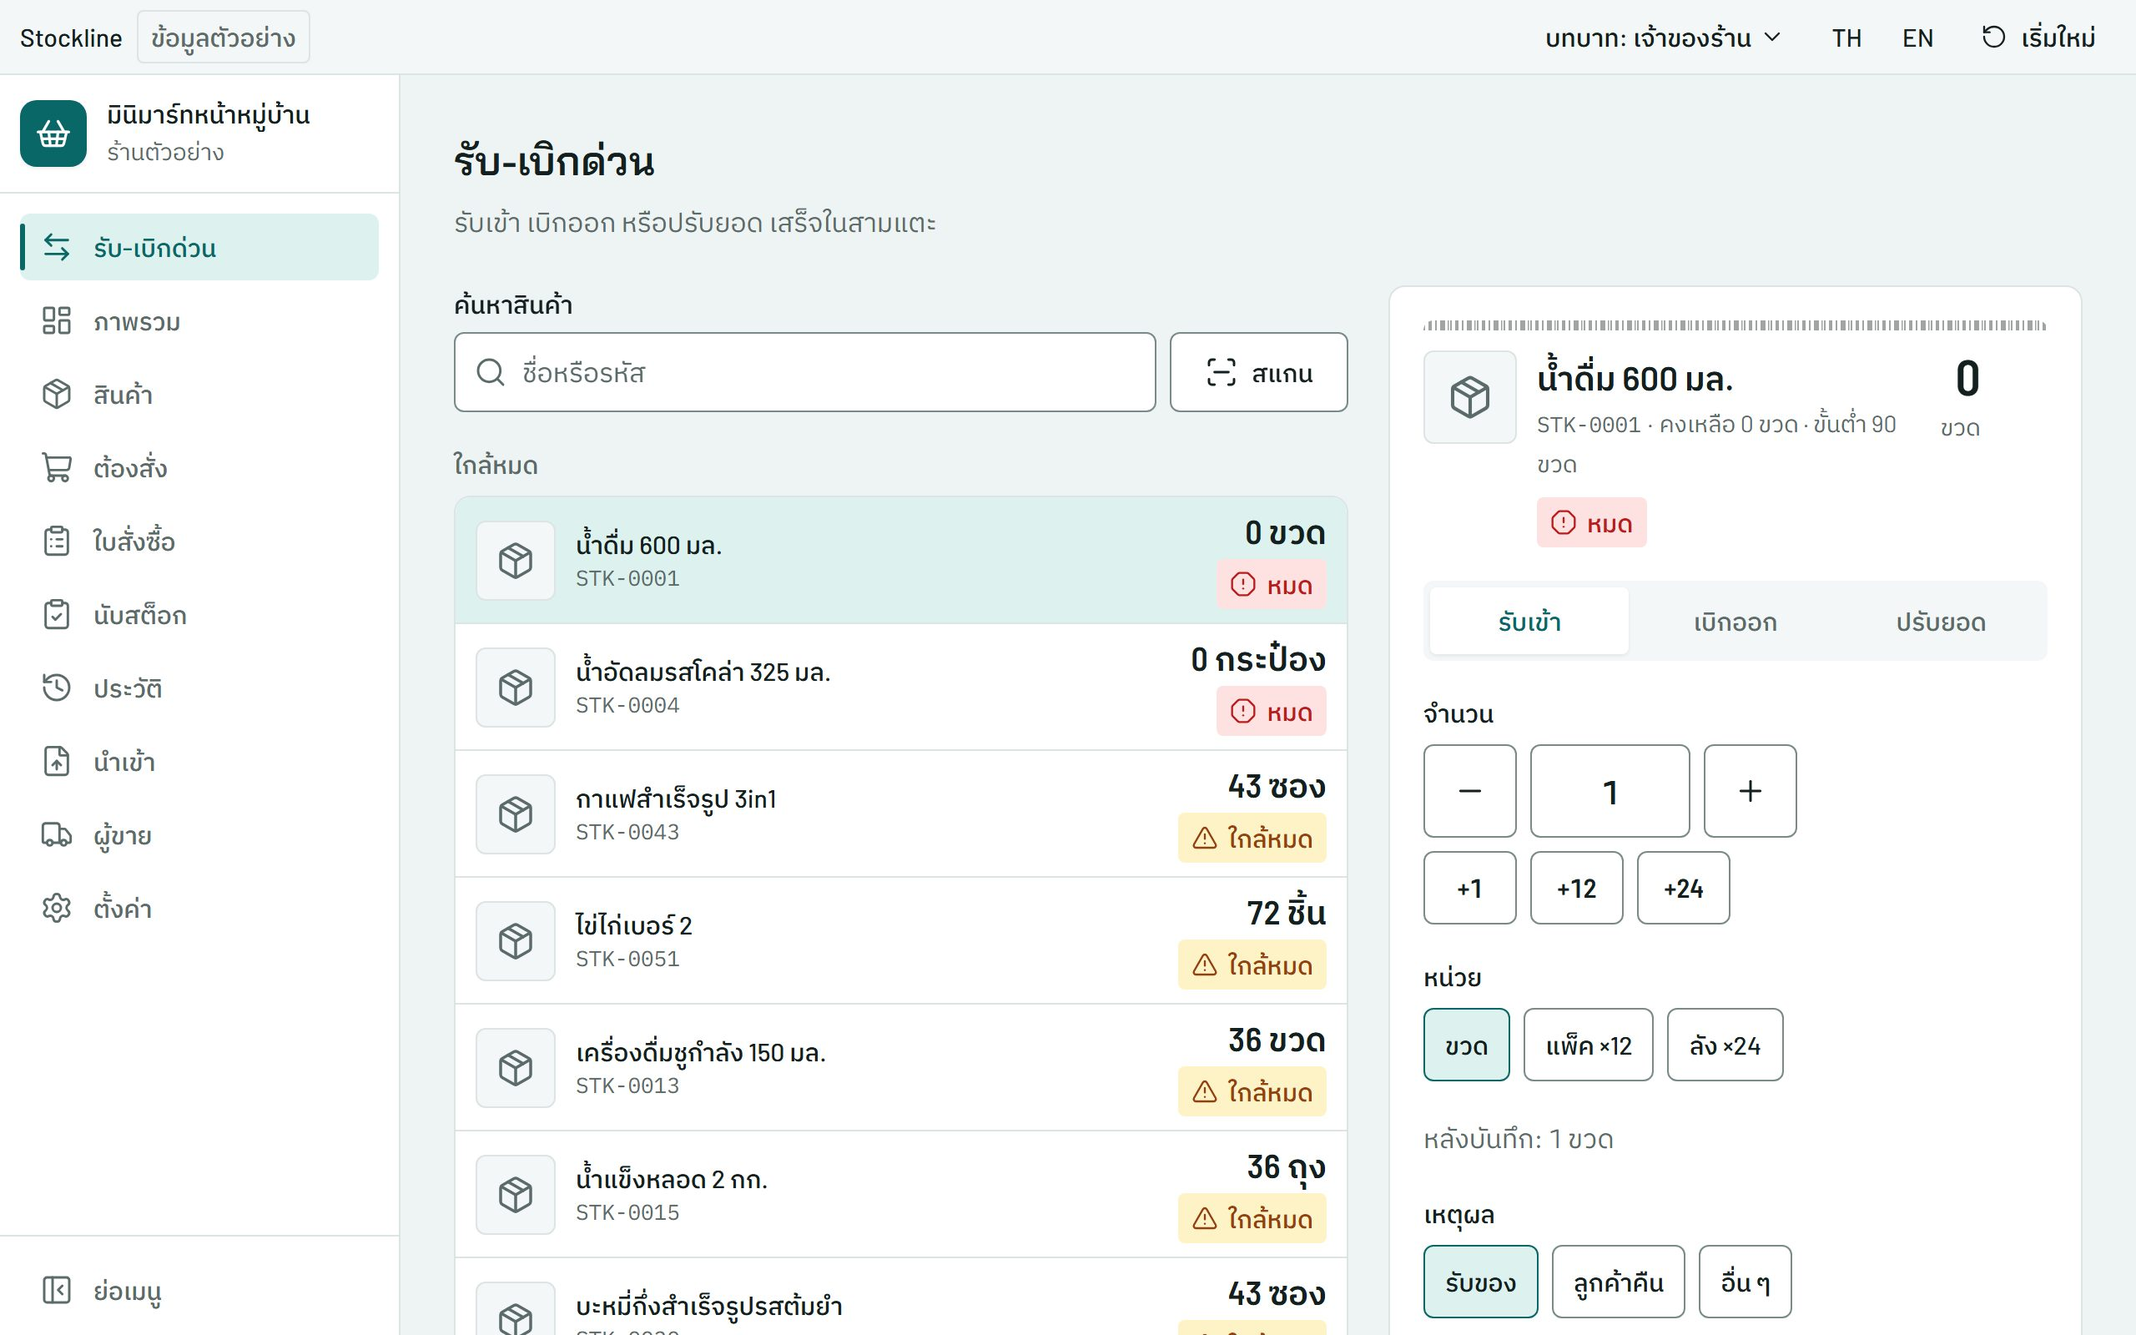
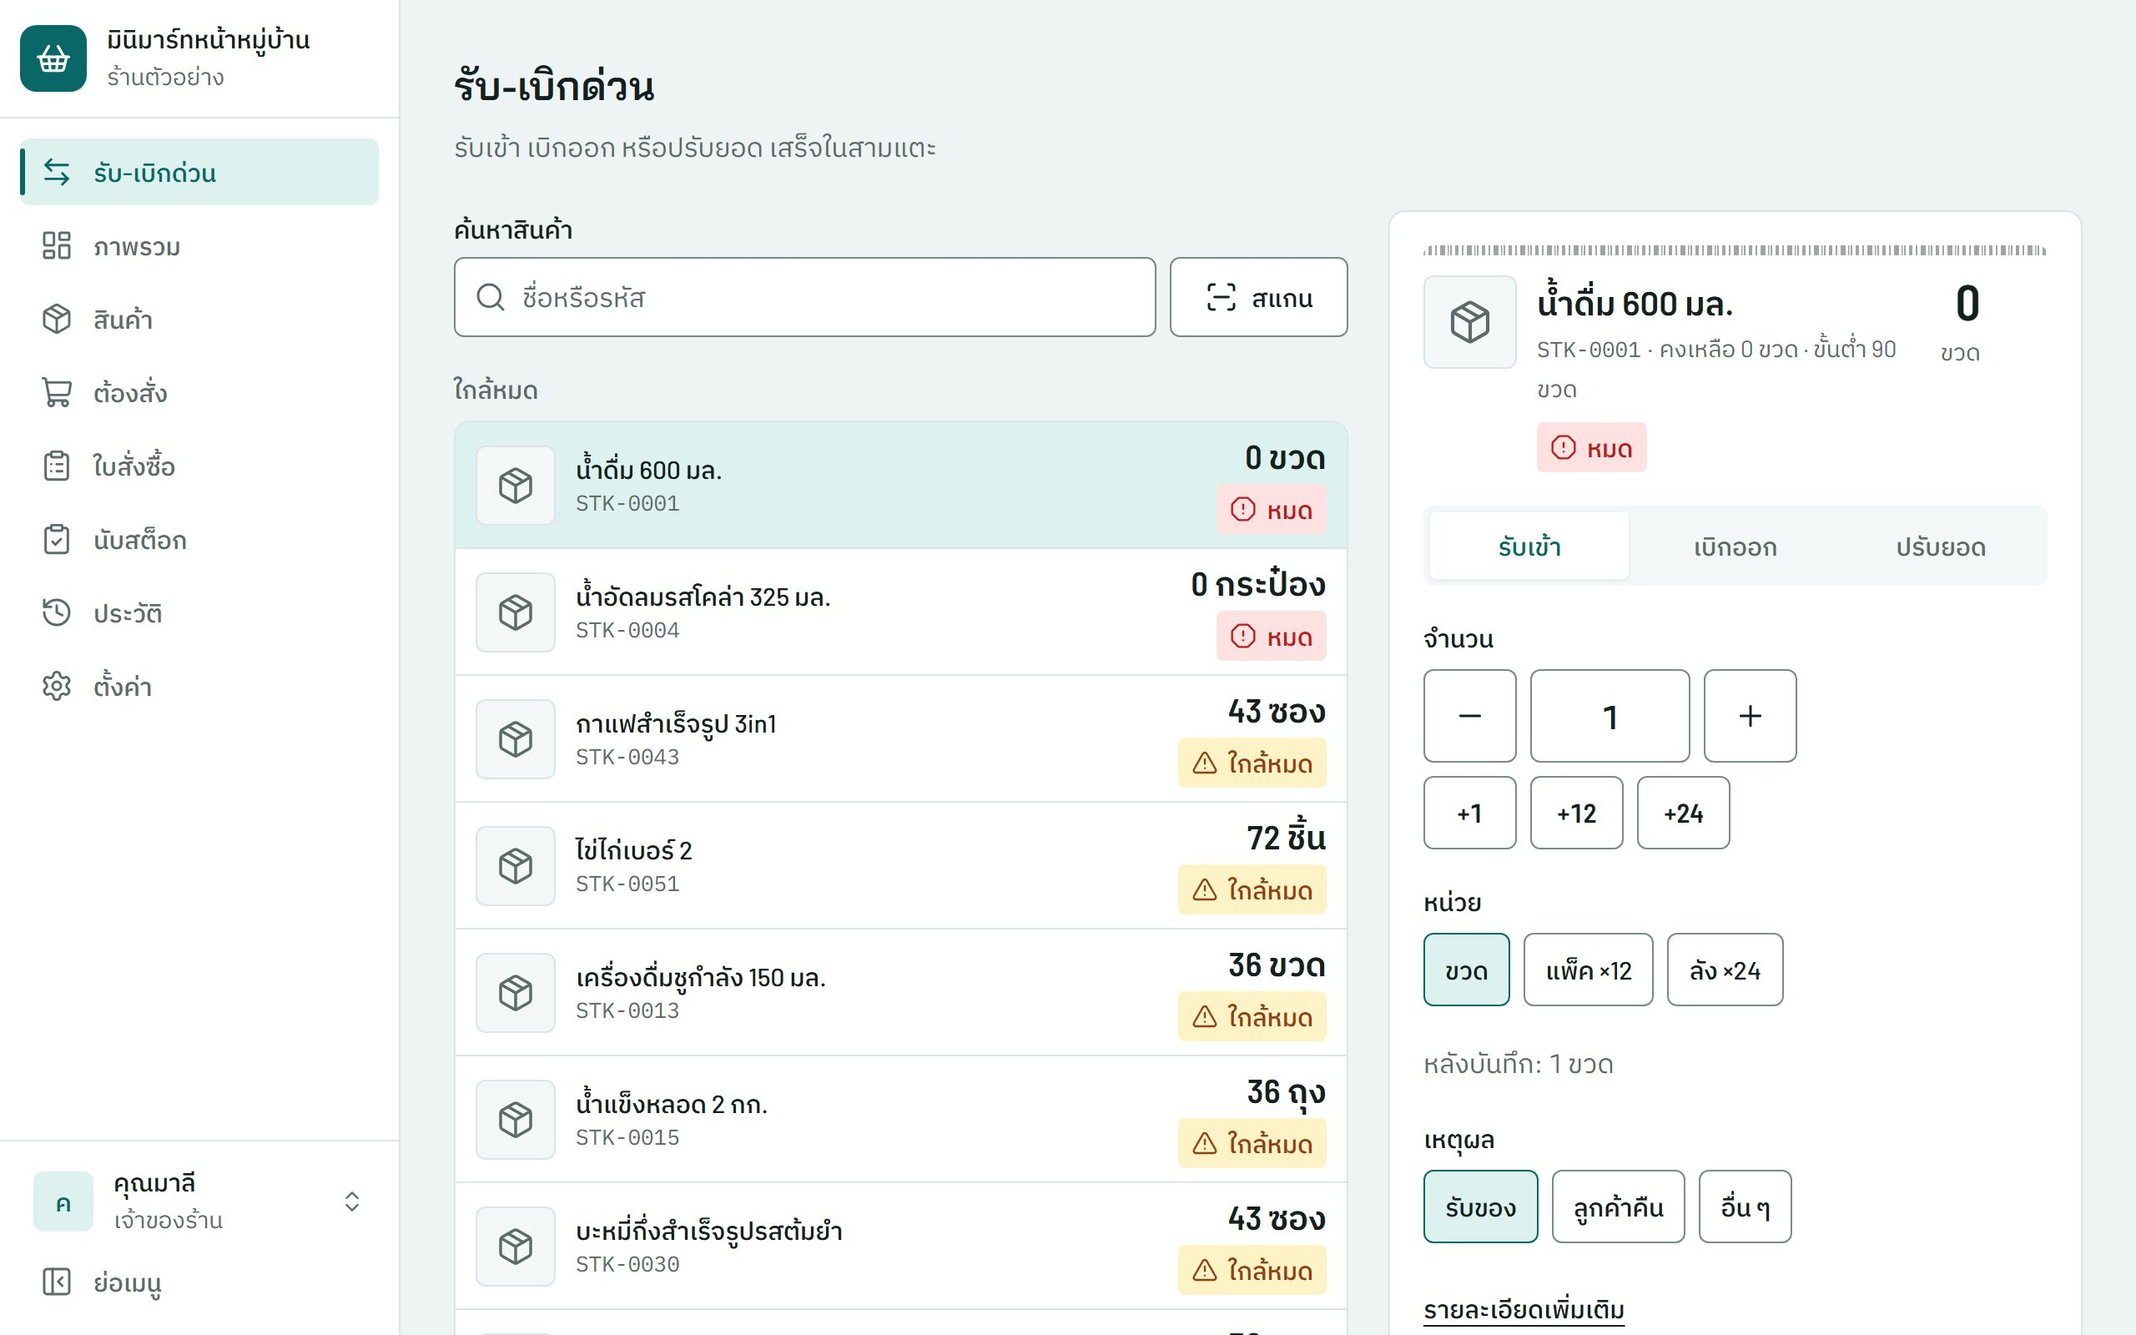
Bring the Stockline pictures up to date with the app
The app no longer has the demo bar: the shop badge heads the sidebar, the account menu and Collapse sit at its foot, and Settings is in the menu. The home page mock now draws it that way (the phone starts with the shop badge, the move panel shows the minimum and the unit choice), and the three screenshots are recaptured from the live app (Thai, light, 2x, tour skipped).

diff --git a/components/products/mocks/StocklineMock.tsx b/components/products/mocks/StocklineMock.tsx
@@ -3,8 +3,9 @@ import { MockIcon, type MockIconName } from './MockIcon';
 
 /**
  * A designed Stockline screen for the website's device frames (not a screenshot): quick move in the sample
- * mini-mart, as the v2 app draws it. The laptop shows the two-pane layout (low-stock list and the move panel with
- * its label strip); the phone shows the large item cards and the bottom tabs. Drawn in device units so it keeps its
+ * mini-mart, as the app draws it today (no app bar: the shop badge heads the sidebar, the account menu sits at its
+ * foot). The laptop shows the two-pane layout (low-stock list and the move panel with its label strip); the phone
+ * shows the shop badge, the large item cards and the bottom tabs. Drawn in device units so it keeps its
  * proportions at any frame size. Colours are Stockline's own (mocks.css); the text is the app's, in the page's
  * language. `data-spot` marks the parts the home page calls out (STOCKLINE_SPOTS, DeviceSpots).
  */
@@ -15,35 +16,43 @@ const COPY = {
   th: {
     shop: 'มินิมาร์ทหน้าหมู่บ้าน',
     sample: 'ร้านตัวอย่าง',
-    sampleData: 'ข้อมูลตัวอย่าง',
+    owner: 'คุณมาลี',
+    role: 'เจ้าของร้าน',
+    collapse: 'ย่อเมนู',
     title: 'รับ-เบิกด่วน',
     subtitle: 'รับเข้า เบิกออก หรือปรับยอด เสร็จในสามแตะ',
     search: 'ชื่อหรือรหัส',
     scan: 'สแกน',
     low: 'ใกล้หมด',
     out: 'หมด',
-    left: (qty: number, unit: string) => `คงเหลือ ${qty} ${unit}`,
+    left: (qty: number, unit: string, min: number) => `คงเหลือ ${qty} ${unit} · ขั้นต่ำ ${min} ${unit}`,
     types: ['รับเข้า', 'เบิกออก', 'ปรับยอด'],
     quantity: 'จำนวน',
+    unit: 'หน่วย',
+    packs: ['แพ็ค', 'ลัง'],
     save: 'บันทึกรับเข้า',
-    nav: ['รับ-เบิกด่วน', 'ภาพรวม', 'สินค้า', 'ต้องสั่ง', 'ใบสั่งซื้อ', 'นับสต็อก', 'ประวัติ'],
+    nav: ['รับ-เบิกด่วน', 'ภาพรวม', 'สินค้า', 'ต้องสั่ง', 'ใบสั่งซื้อ', 'นับสต็อก', 'ประวัติ', 'ตั้งค่า'],
     tabs: ['รับ-เบิก', 'สินค้า', 'ต้องสั่ง', 'ประวัติ', 'เพิ่มเติม'],
   },
   en: {
     shop: 'Village Mini-mart',
     sample: 'Sample shop',
-    sampleData: 'Sample data',
+    owner: 'คุณมาลี',
+    role: 'Owner',
+    collapse: 'Collapse',
     title: 'Quick move',
     subtitle: 'Stock in, stock out or adjust in three taps',
     search: 'Name or code',
     scan: 'Scan',
     low: 'Running low',
     out: 'Out',
-    left: (qty: number, unit: string) => `${qty} ${unit} on hand`,
+    left: (qty: number, unit: string, min: number) => `${qty} ${unit} on hand · min ${min}`,
     types: ['In', 'Out', 'Adjust'],
     quantity: 'Quantity',
+    unit: 'Unit',
+    packs: ['Pack', 'Case'],
     save: 'Save In',
-    nav: ['Quick move', 'Overview', 'Items', 'To order', 'Orders', 'Counts', 'History'],
+    nav: ['Quick move', 'Overview', 'Items', 'To order', 'Orders', 'Counts', 'History', 'Settings'],
     tabs: ['Move', 'Items', 'Order', 'History', 'More'],
   },
 } as const;
@@ -53,6 +62,7 @@ type Item = {
   en: string;
   code: string;
   qty: number;
+  min: number;
   unit: [string, string];
   out: boolean;
   icon: MockIconName;
@@ -60,14 +70,14 @@ type Item = {
 };
 
 const ITEMS: Item[] = [
-  { th: 'น้ำดื่ม 600 มล.', en: 'Drinking water 600 ml', code: 'STK-0001', qty: 0, unit: ['ขวด', 'bottles'], out: true, icon: 'bottle', packs: [12, 24] },
-  { th: 'น้ำอัดลมรสโคล่า 325 มล.', en: 'Cola 325 ml can', code: 'STK-0004', qty: 0, unit: ['กระป๋อง', 'cans'], out: true, icon: 'can', packs: [6, 24] },
-  { th: 'กาแฟสำเร็จรูป 3in1', en: 'Instant coffee 3-in-1', code: 'STK-0043', qty: 43, unit: ['ซอง', 'sachets'], out: false, icon: 'cup', packs: [27] },
-  { th: 'ไข่ไก่เบอร์ 2', en: 'Chicken eggs, size 2', code: 'STK-0051', qty: 72, unit: ['ฟอง', 'eggs'], out: false, icon: 'egg', packs: [30] },
-  { th: 'เครื่องดื่มชูกำลัง 150 มล.', en: 'Energy drink 150 ml', code: 'STK-0013', qty: 36, unit: ['ขวด', 'bottles'], out: false, icon: 'bolt', packs: [10, 50] },
+  { th: 'น้ำดื่ม 600 มล.', en: 'Drinking water 600 ml', code: 'STK-0001', qty: 0, min: 90, unit: ['ขวด', 'bottles'], out: true, icon: 'bottle', packs: [12, 24] },
+  { th: 'น้ำอัดลมรสโคล่า 325 มล.', en: 'Cola 325 ml can', code: 'STK-0004', qty: 0, min: 48, unit: ['กระป๋อง', 'cans'], out: true, icon: 'can', packs: [6, 24] },
+  { th: 'กาแฟสำเร็จรูป 3in1', en: 'Instant coffee 3-in-1', code: 'STK-0043', qty: 43, min: 60, unit: ['ซอง', 'sachets'], out: false, icon: 'cup', packs: [27] },
+  { th: 'ไข่ไก่เบอร์ 2', en: 'Chicken eggs, size 2', code: 'STK-0051', qty: 72, min: 90, unit: ['ฟอง', 'eggs'], out: false, icon: 'egg', packs: [30] },
+  { th: 'เครื่องดื่มชูกำลัง 150 มล.', en: 'Energy drink 150 ml', code: 'STK-0013', qty: 36, min: 40, unit: ['ขวด', 'bottles'], out: false, icon: 'bolt', packs: [10, 50] },
 ];
 
-const NAV_ICONS: MockIconName[] = ['swap', 'grid', 'box', 'cart', 'doc', 'check', 'clock'];
+const NAV_ICONS: MockIconName[] = ['swap', 'grid', 'box', 'cart', 'doc', 'check', 'clock', 'gear'];
 const TAB_ICONS: MockIconName[] = ['swap', 'box', 'cart', 'clock', 'dots'];
 
 const name = (item: Item, locale: Locale) => (locale === 'th' ? item.th : item.en);
@@ -122,19 +132,22 @@ function Shop({ locale }: { locale: Locale }) {
   );
 }
 
-/** The app bar: name, the sample-data chip, the language switch. */
-function AppBar({ locale, menu }: { locale: Locale; menu: boolean }) {
+/** The foot of the sidebar: the account menu and the collapse control. */
+function Account({ locale }: { locale: Locale }) {
   const c = COPY[locale];
   return (
-    <div className="mk-top">
-      <span className="mk-sl-brand">
-        <b>Stockline</b>
-        <span className="mk-sl-tag">{c.sampleData}</span>
+    <div className="mk-sl-foot">
+      <span className="mk-sl-account">
+        <span className="mk-sl-avatar">{c.owner.slice(0, 1)}</span>
+        <span className="mk-shop-text">
+          <b>{c.owner}</b>
+          <small>{c.role}</small>
+        </span>
+        <MockIcon name="updown" />
       </span>
-      <span className="mk-sl-bar-end">
-        <span className={locale === 'th' ? 'is-on' : undefined}>TH</span>
-        <span className={locale === 'en' ? 'is-on' : undefined}>EN</span>
-        {menu ? <MockIcon name="menu" /> : <MockIcon name="reset" />}
+      <span>
+        <MockIcon name="sidebar" />
+        {c.collapse}
       </span>
     </div>
   );
@@ -170,7 +183,7 @@ function Panel({ locale }: { locale: Locale }) {
         <span className="mk-row-text">
           <b>{name(item, locale)}</b>
           <code>
-            {item.code} · {c.left(item.qty, unit(item, locale))}
+            {item.code} · {c.left(item.qty, unit(item, locale), item.min)}
           </code>
         </span>
         <span className="mk-sl-big">
@@ -203,6 +216,15 @@ function Panel({ locale }: { locale: Locale }) {
           </span>
         ))}
       </div>
+      <small className="mk-sl-field">{c.unit}</small>
+      <div className="mk-sl-chips">
+        <span className="is-on">{unit(item, locale)}</span>
+        {item.packs.map((size, i) => (
+          <span key={size}>
+            {c.packs[i]} ×{size}
+          </span>
+        ))}
+      </div>
       <span className="mk-sl-save">{c.save}</span>
     </section>
   );
@@ -214,7 +236,6 @@ export function StocklineMock({ locale, device }: { locale: Locale; device: 'des
     return (
       <div className="mk mk-stockline mk-phone" lang={locale}>
         <div className="mk-status" />
-        <AppBar locale={locale} menu />
         <div className="mk-main">
           <Shop locale={locale} />
           <h3>{c.title}</h3>
@@ -236,7 +257,6 @@ export function StocklineMock({ locale, device }: { locale: Locale; device: 'des
   }
   return (
     <div className="mk mk-stockline mk-desktop" lang={locale}>
-      <AppBar locale={locale} menu={false} />
       <div className="mk-body">
         <div className="mk-side">
           <span className="mk-sl-side-shop">
@@ -248,6 +268,7 @@ export function StocklineMock({ locale, device }: { locale: Locale; device: 'des
               {label}
             </span>
           ))}
+          <Account locale={locale} />
         </div>
         <div className="mk-main">
           <h3>{c.title}</h3>

diff --git a/components/products/mocks/mocks.css b/components/products/mocks/mocks.css
@@ -115,14 +115,10 @@
 .mk-phone .mk-notice b { font-size: calc(var(--u) * 17); }
 .mk-phone .mk-notice span { font-size: calc(var(--u) * 14.5); color: var(--mk-ink); }
 
-/* Stockline v2 (ux-v2/stockline.md): app bar with the sample-data tag, the shop badge in the sidebar, content on the
-   surface tint in white cards, the two-pane quick move with the label-strip panel, large phone cards. */
+/* Stockline v2 (ux-v2/stockline.md), as the app is today: no app bar; the shop badge heads the sidebar and the account
+   menu sits at its foot; content on the surface tint in white cards, the two-pane quick move with the label-strip
+   panel, large phone cards under the shop badge. */
 .mk-stockline .mk-num { font-weight: 700; font-variant-numeric: tabular-nums; }
-.mk-stockline .mk-top { display: flex; align-items: center; justify-content: space-between; background: var(--mk-sunken); border-bottom: 1px solid var(--mk-line); }
-.mk-sl-brand { display: flex; align-items: center; }
-.mk-sl-tag { border: 1px solid var(--mk-line); background: var(--mk-surface); color: var(--mk-muted); }
-.mk-sl-bar-end { display: flex; align-items: center; color: var(--mk-muted); }
-.mk-sl-bar-end .is-on { color: var(--mk-ink); font-weight: 600; }
 .mk-searchrow { display: flex; }
 .mk-search, .mk-scan { display: flex; align-items: center; border: 1px solid var(--mk-line-strong); background: var(--mk-surface); }
 .mk-search { flex: 1; min-width: 0; color: var(--mk-muted); }
@@ -137,11 +133,7 @@
 .mk-chip { display: inline-flex; align-items: center; justify-self: end; font-weight: 600; white-space: nowrap; }
 
 /* Laptop: the screen is 600 × 375 units. */
-.mk-stockline.mk-desktop .mk-top { height: calc(var(--u) * 28); padding: 0 calc(var(--u) * 12); }
-.mk-stockline.mk-desktop .mk-sl-brand { gap: calc(var(--u) * 6); font-size: calc(var(--u) * 9); }
-.mk-stockline.mk-desktop .mk-sl-tag { padding: calc(var(--u) * 1.5) calc(var(--u) * 5); border-radius: calc(var(--u) * 3); font-size: calc(var(--u) * 7); }
-.mk-stockline.mk-desktop .mk-sl-bar-end { gap: calc(var(--u) * 10); font-size: calc(var(--u) * 8); }
-.mk-stockline.mk-desktop .mk-side { width: calc(var(--u) * 116); padding: 0 calc(var(--u) * 8) calc(var(--u) * 8); gap: calc(var(--u) * 3); background: var(--mk-surface); }
+.mk-stockline.mk-desktop .mk-side { display: flex; flex-direction: column; width: calc(var(--u) * 116); padding: 0 calc(var(--u) * 8) calc(var(--u) * 6); gap: calc(var(--u) * 3); background: var(--mk-surface); }
 .mk-stockline.mk-desktop .mk-side > span { height: calc(var(--u) * 19); font-size: calc(var(--u) * 7.5); }
 .mk-stockline.mk-desktop .mk-side > span.is-on { box-shadow: inset calc(var(--u) * 2) 0 0 var(--mk-primary); }
 .mk-stockline.mk-desktop .mk-side > .mk-sl-side-shop { display: block; height: auto; margin: 0 calc(var(--u) * -8) calc(var(--u) * 6); padding: calc(var(--u) * 10); border-bottom: 1px solid var(--mk-line); border-radius: 0; }
@@ -188,16 +180,12 @@
 .mk-sl-stepper { display: grid; grid-template-columns: calc(var(--u) * 24) minmax(0, 1fr) calc(var(--u) * 24); gap: calc(var(--u) * 5); }
 .mk-sl-stepper > * { display: flex; align-items: center; justify-content: center; height: calc(var(--u) * 24); border: 1px solid var(--mk-line-strong); border-radius: calc(var(--u) * 4); color: var(--mk-ink); font-size: calc(var(--u) * 10); }
 .mk-sl-chips { display: flex; gap: calc(var(--u) * 5); }
+.mk-sl-chips span.is-on { background: var(--mk-soft); border-color: var(--mk-primary); }
 .mk-sl-chips span { display: flex; align-items: center; height: calc(var(--u) * 17); padding: 0 calc(var(--u) * 7); border: 1px solid var(--mk-line-strong); border-radius: calc(var(--u) * 4); font-size: calc(var(--u) * 7); color: var(--mk-ink); }
 .mk-sl-save { display: flex; align-items: center; justify-content: center; height: calc(var(--u) * 22); border-radius: calc(var(--u) * 4); background: var(--mk-primary); color: var(--mk-on-primary); font-weight: 600; font-size: calc(var(--u) * 7.5); }
 
 /* Phone: the screen is 390 × 830 units. */
-.mk-stockline.mk-phone .mk-status { background: var(--mk-sunken); }
-.mk-stockline.mk-phone .mk-top { height: calc(var(--u) * 56); padding: 0 calc(var(--u) * 20); }
-.mk-stockline.mk-phone .mk-sl-brand { gap: calc(var(--u) * 10); font-size: calc(var(--u) * 18); }
-.mk-stockline.mk-phone .mk-sl-tag { padding: calc(var(--u) * 3) calc(var(--u) * 9); border-radius: calc(var(--u) * 6); font-size: calc(var(--u) * 14); }
-.mk-stockline.mk-phone .mk-sl-bar-end { gap: calc(var(--u) * 22); font-size: calc(var(--u) * 16); }
-.mk-stockline.mk-phone .mk-sl-bar-end .mk-icon { font-size: calc(var(--u) * 24); color: var(--mk-ink); }
+.mk-stockline.mk-phone .mk-status { background: var(--mk-surface); }
 .mk-stockline.mk-phone .mk-main { padding: calc(var(--u) * 20); background: var(--mk-surface); }
 .mk-stockline.mk-phone .mk-shop { gap: calc(var(--u) * 12); margin-bottom: calc(var(--u) * 22); }
 .mk-stockline.mk-phone .mk-logo { width: calc(var(--u) * 44); height: calc(var(--u) * 44); border-radius: calc(var(--u) * 10); font-size: calc(var(--u) * 24); }
@@ -227,3 +215,12 @@
 .mk-stockline.mk-desktop .mk-side .mk-logo { display: flex; height: calc(var(--u) * 20); padding: 0; color: var(--mk-on-primary); }
 .mk-stockline.mk-desktop .mk-side .mk-shop-text { display: grid; height: auto; padding: 0; min-width: 0; }
 .mk-stockline.mk-desktop .mk-side .mk-shop-text b { white-space: normal; line-height: 1.2; }
+
+/* The sidebar foot: the account menu (avatar, name, role) and the collapse control. */
+.mk-sl-foot { display: grid; gap: calc(var(--u) * 3); margin: auto calc(var(--u) * -8) 0; padding: calc(var(--u) * 6) calc(var(--u) * 8) 0; border-top: 1px solid var(--mk-line); }
+.mk-stockline.mk-desktop .mk-sl-foot > span { display: flex; align-items: center; height: calc(var(--u) * 19); padding: 0 calc(var(--u) * 7); gap: calc(var(--u) * 6); font-size: calc(var(--u) * 7.5); color: var(--mk-muted); }
+.mk-stockline.mk-desktop .mk-sl-foot > .mk-sl-account { height: calc(var(--u) * 26); padding: 0 calc(var(--u) * 4); color: var(--mk-muted); }
+.mk-stockline.mk-desktop .mk-sl-avatar { display: flex; align-items: center; justify-content: center; flex: none; width: calc(var(--u) * 18); height: calc(var(--u) * 18); padding: 0; border-radius: calc(var(--u) * 4); background: var(--mk-soft); color: var(--mk-primary); font-size: calc(var(--u) * 7); font-weight: 600; }
+.mk-stockline.mk-desktop .mk-sl-account .mk-shop-text { display: grid; flex: 1; height: auto; padding: 0; }
+.mk-stockline.mk-desktop .mk-sl-account .mk-shop-text b { font-size: calc(var(--u) * 7.5); color: var(--mk-ink); }
+.mk-stockline.mk-desktop .mk-sl-account .mk-shop-text small { font-size: calc(var(--u) * 6.5); }

diff --git a/components/products/mocks/MockIcon.tsx b/components/products/mocks/MockIcon.tsx
@@ -31,6 +31,9 @@ const PATHS = {
   plus: 'M12 5v14M5 12h14',
   menu: 'M4 7h16M4 12h16M4 17h16',
   reset: 'M4 12a8 8 0 1 0 2.3-5.7M4 4v4h4',
+  gear: 'M12 15a3 3 0 1 0 0-6 3 3 0 0 0 0 6zM12 2v3M12 19v3M4.9 4.9 7 7M17 17l2.1 2.1M2 12h3M19 12h3M4.9 19.1 7 17M17 7l2.1-2.1',
+  sidebar: 'M4 4h16v16H4zM9 4v16M15 10l-2 2 2 2',
+  updown: 'M8 9l4-4 4 4M8 15l4 4 4-4',
 } as const;
 
 export type MockIconName = keyof typeof PATHS;
